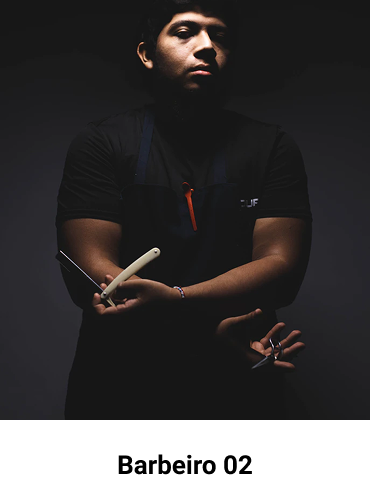
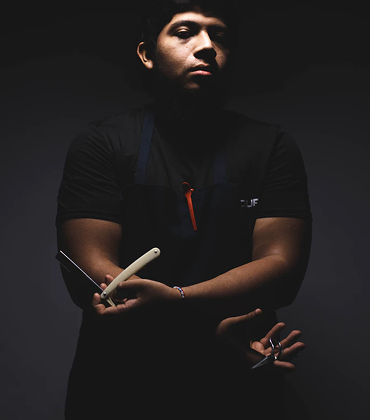
criação da pagina de apresentação dos barbeiros

diff --git a/index.html b/index.html
@@ -230,15 +230,6 @@
     </div>
 
 
-
-
-
-
-
-
-
-
-
     </div>
 
     <div class="fundo-pt5">
@@ -283,13 +274,31 @@
     </div>
 
     <div class="fundo-pt7">
+
         <h1 class="titulo-pt7">Agende o seu corte ou
             barba agora mesmo!</h1>
         <button class="botao-pt7">AGENDE SEU CORTE</button>
 
     </div>
 
+    <div>
+        <h1 class="titulo-barbeiros">Conheça nossos profissionais</h1>
+        <h1 class="sub-barbeiros">Os Barbeiros da Casa</h1>
+        <p class="conteudo ">Mussum Ipsum, cacilds vidis litro abertis. Mé faiz elementum girarzis, n
+            isi eros vermeio. Interagi no mé, cursus quis, vehicula ac nisi. Cevadi
+            s im ampola pa arma uma pindureta. Quem num gosta di mé, boa gentis num é.</p>
 
+            <div class="imagens-barbeiros">
+                <img src="imagens/barbeiroIdoso.png">
+                <h1>Barbeiro 01</h1>
+
+                <img src="imagens/barbeiro.png">
+                <h1>Barbeiro 02</h1>
+
+                <img src="imagens/barbeiroPB.png">
+                <h1>Barbeiro 03</h1>
+            </div>
+    </div>
 
 
 </body>

diff --git a/estilo.css b/estilo.css
@@ -379,6 +379,7 @@ padding-right: 438px;
 padding-bottom: 60px;
 }
 .subtitulo-pt5{
+    margin-top: 100px;
 font-family: 'Roboto';
 font-style: normal;
 font-weight: 700;
@@ -429,30 +430,38 @@ padding-right: 31px;
 }
 /*Parte 7 ---------------------------------------------------------------------------------------------------------------------------------*/
 .fundo-pt7{
-
+display: flex;
+align-items: center;
 height: 370px;
-top: 3848px;
+margin-top: 90px;
 background: #092C52;
 }
 .titulo-pt7{
-
 width: 344px;
 height: 80px;
-left: 335px;
-top: 145px;
+margin-left: 335px;
 font-family: 'Roboto';
 font-style: normal;
 font-weight: 700;
 font-size: 34px;
-line-height: 40px;
+display: flex;
+justify-content: center;
 color: #F99420;
 }
 .botao-pt7{
-
+margin-left: 165px;
 width: 270px;
 height: 65px;
-left: 835px;
-top: 153px;
 background-color: #F99420;
 color: white;
+justify-content: center;
+}
+
+
+.imagens-barbeiros{
+    display: flex;
+    margin-left: 135px;
+}
+.titulo-barbeiros{
+    
 }
